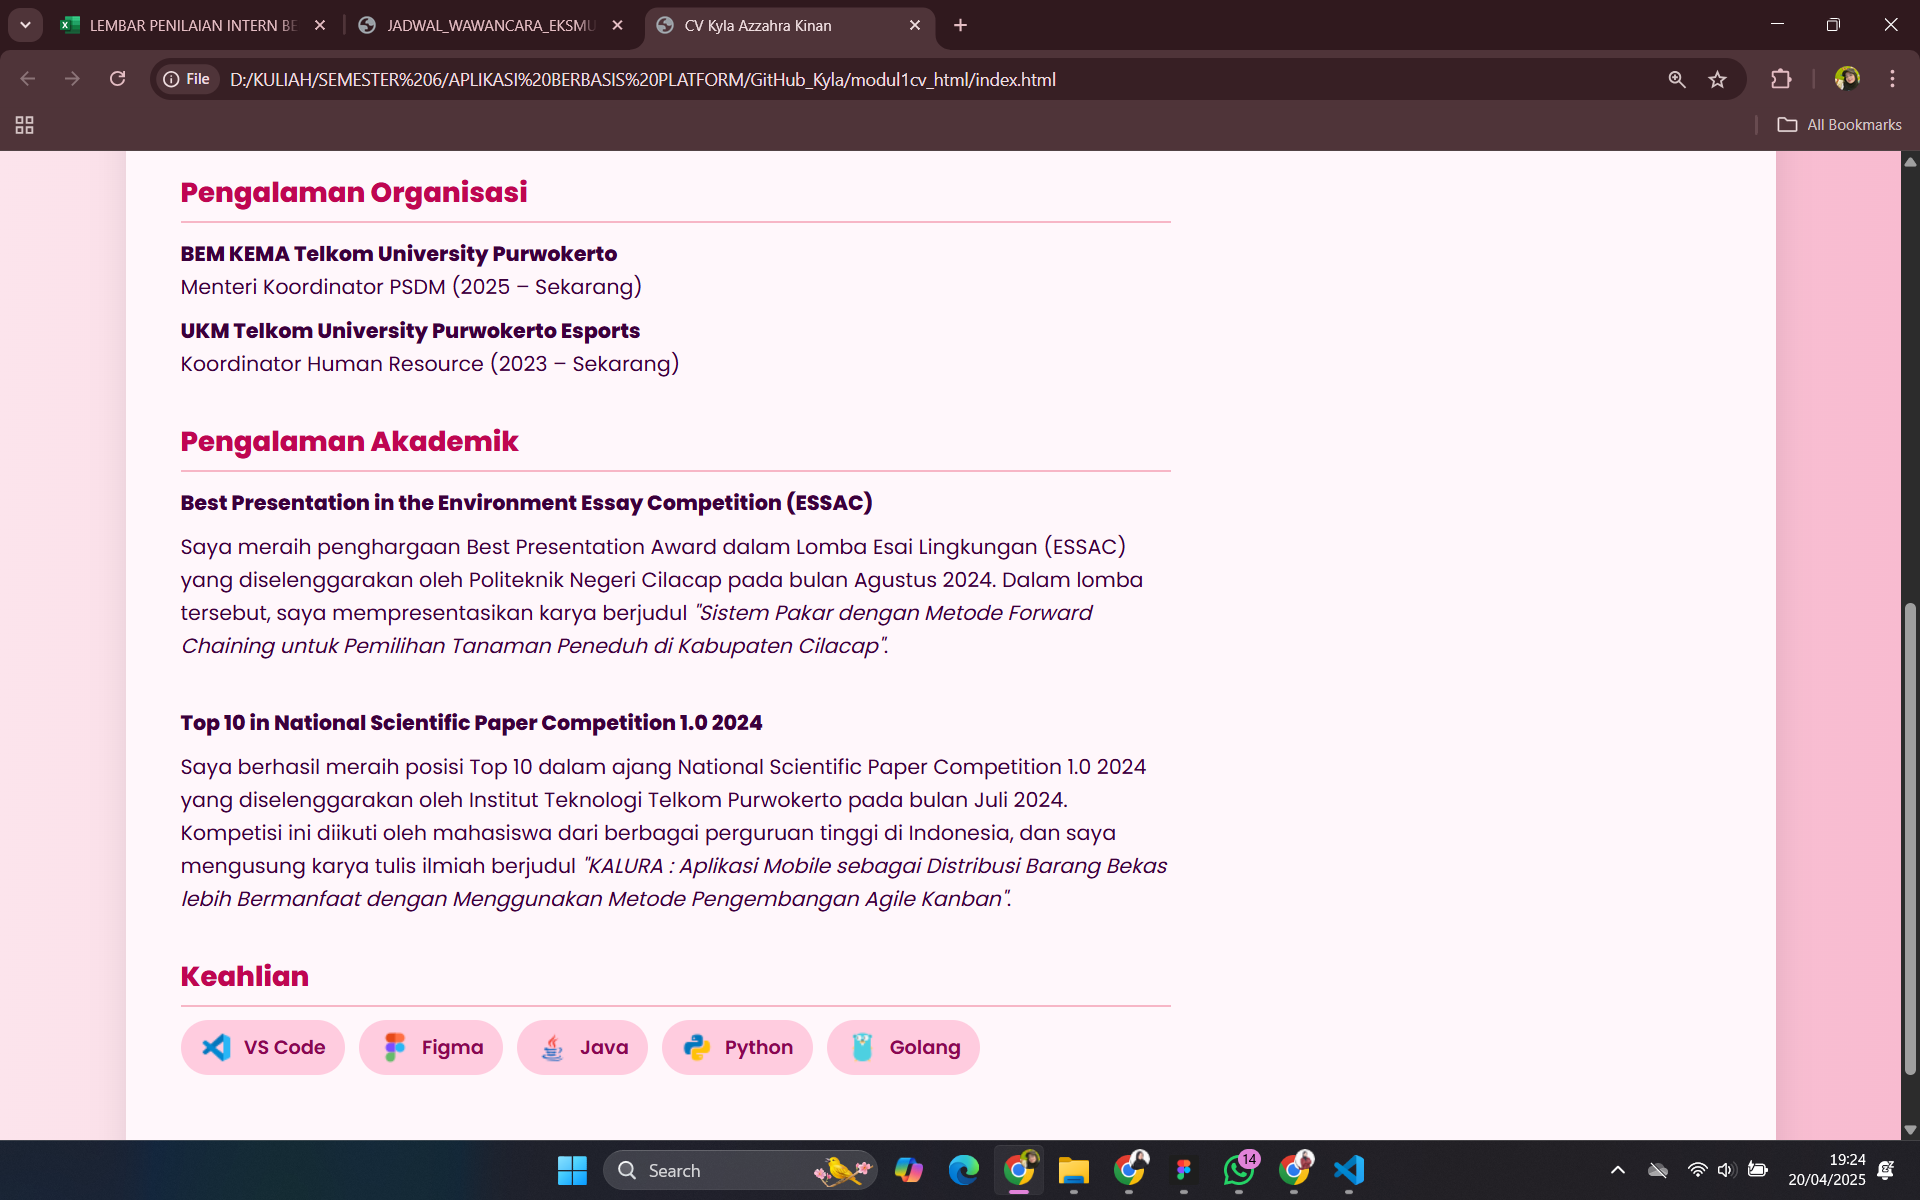
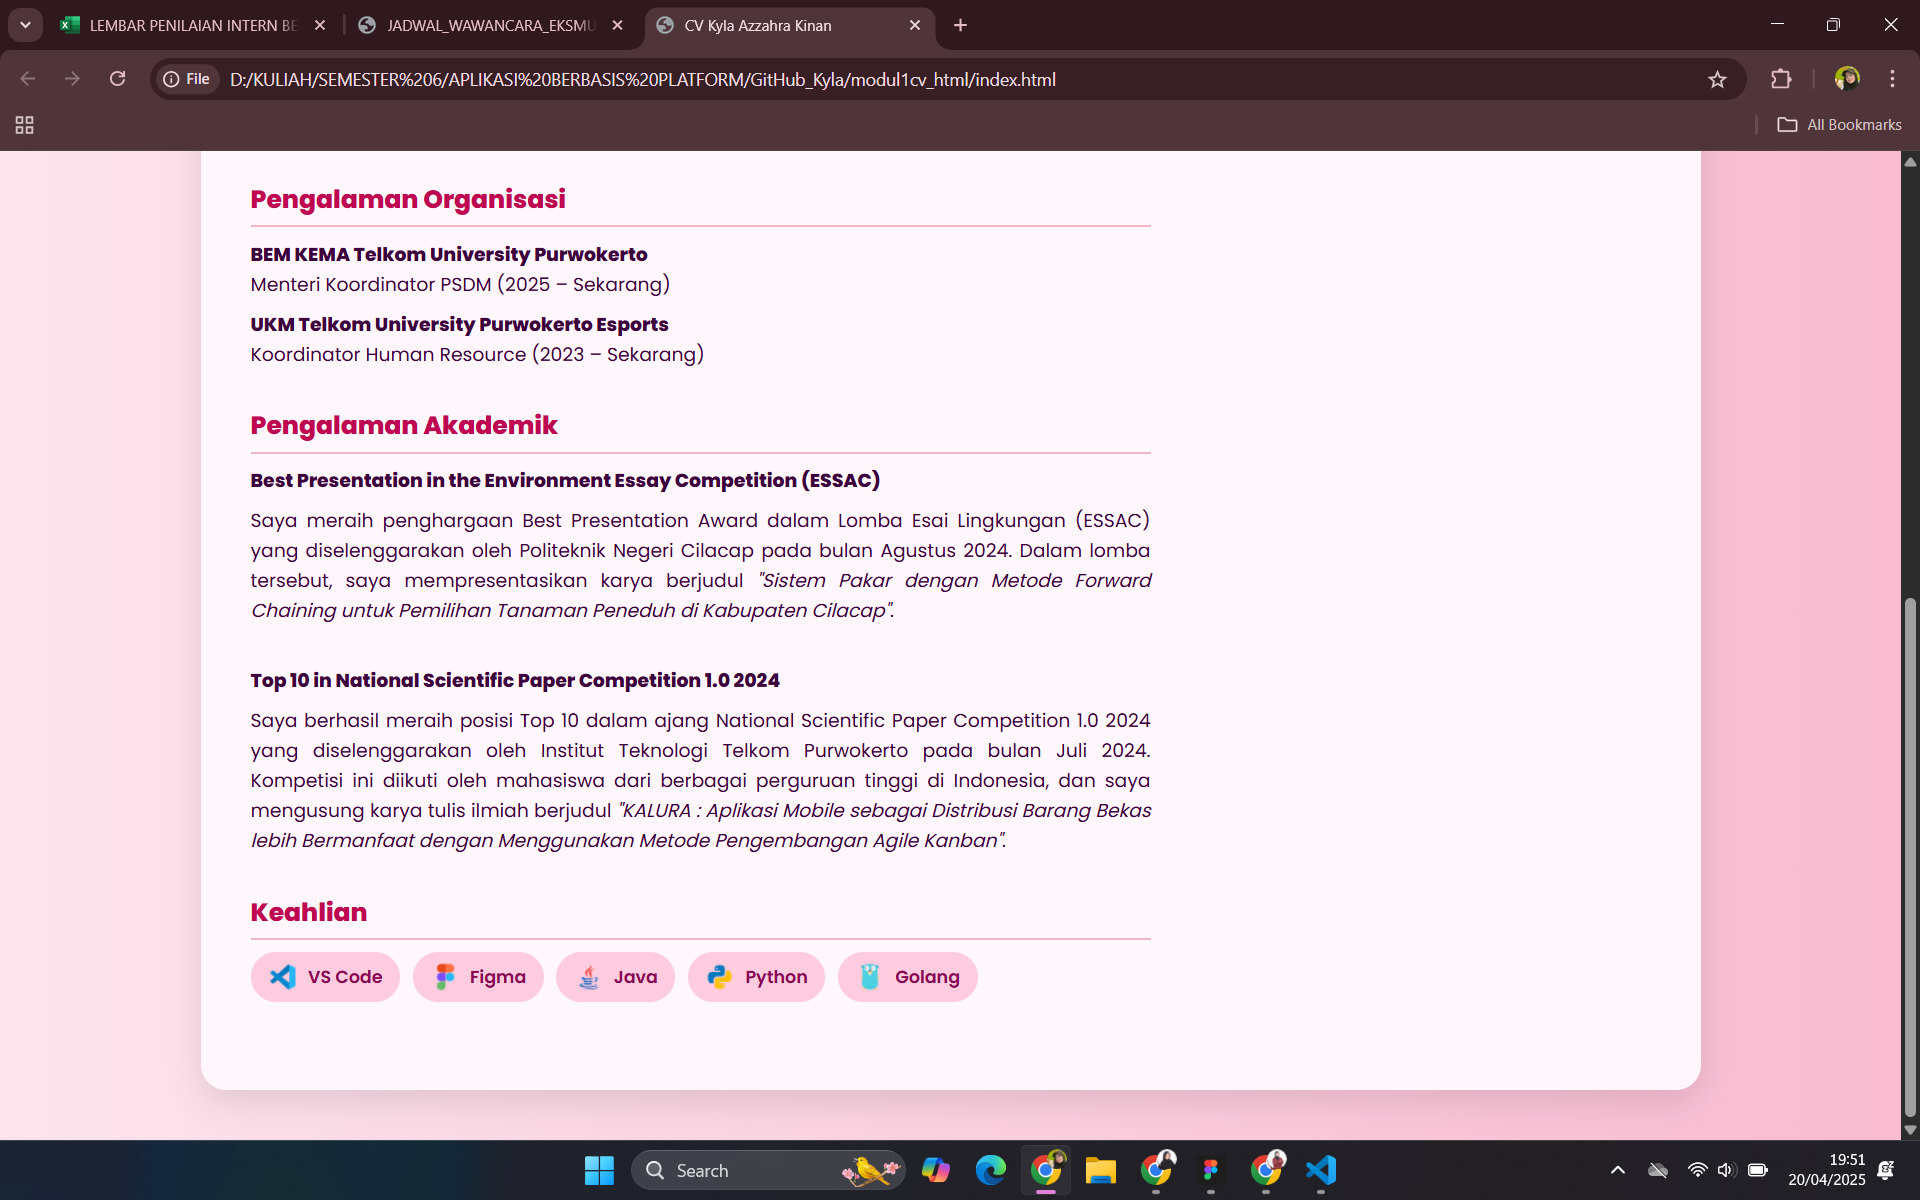
ABP

Changed region(s): [[0.0938, 0.1233, 0.9375, 1.0], [0.9688, 0.8942, 1.0, 0.925]]

diff --git a/modul1cv_html/index.html b/modul1cv_html/index.html
@@ -45,7 +45,7 @@
         </ul>
       </section>
 
-      <section>
+      <section class="pengalaman">
         <h2>Pengalaman Akademik</h2>
         <p><strong>Best Presentation in the Environment Essay Competition (ESSAC)</strong></p>
         <p>Saya meraih penghargaan Best Presentation Award dalam Lomba Esai Lingkungan (ESSAC) yang diselenggarakan oleh Politeknik Negeri Cilacap pada bulan Agustus 2024. Dalam lomba tersebut, saya mempresentasikan karya berjudul <em>"Sistem Pakar dengan Metode Forward Chaining untuk Pemilihan Tanaman Peneduh di Kabupaten Cilacap"</em>.</p>
@@ -53,6 +53,7 @@
         <p><strong>Top 10 in National Scientific Paper Competition 1.0 2024</strong></p>
         <p>Saya berhasil meraih posisi Top 10 dalam ajang National Scientific Paper Competition 1.0 2024 yang diselenggarakan oleh Institut Teknologi Telkom Purwokerto pada bulan Juli 2024. Kompetisi ini diikuti oleh mahasiswa dari berbagai perguruan tinggi di Indonesia, dan saya mengusung karya tulis ilmiah berjudul <em>"KALURA : Aplikasi Mobile sebagai Distribusi Barang Bekas lebih Bermanfaat dengan Menggunakan Metode Pengembangan Agile Kanban"</em>.</p>
       </section>
+      
 
       <section>
         <h2>Keahlian</h2>

diff --git a/modul1cv_html/style.css b/modul1cv_html/style.css
@@ -52,7 +52,7 @@
     list-style: none;
     padding-left: 0;
   }
-  
+    
   .skills {
     display: flex;
     flex-wrap: wrap;
@@ -106,5 +106,13 @@
   .contact i {
     margin-right: 8px;
     color: #8a0651;
+  }
+  
+  .about p {
+    text-align: justify;
+  }
+
+  .pengalaman p {
+    text-align: justify;
   }
   
